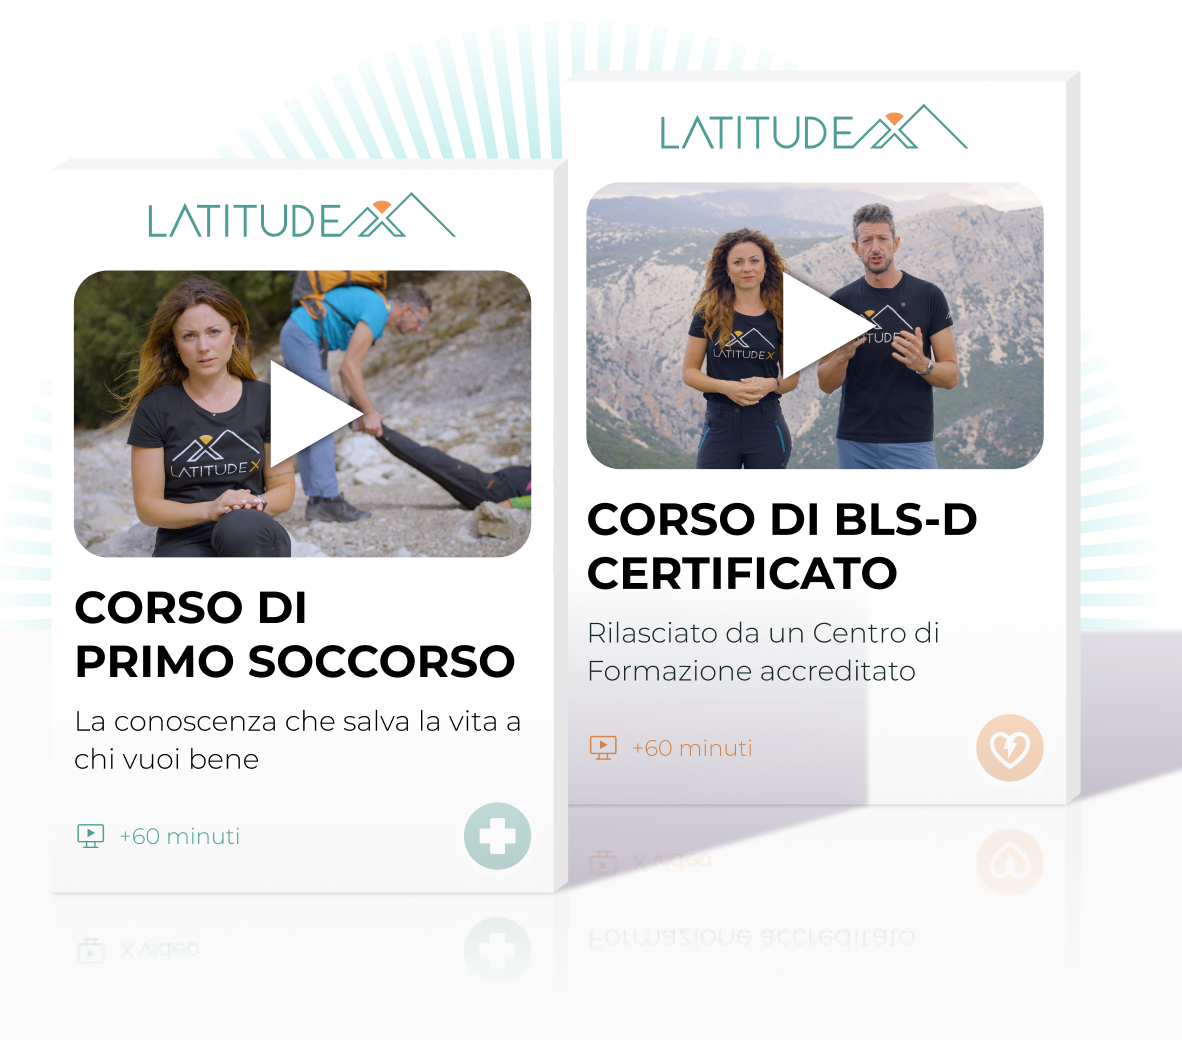
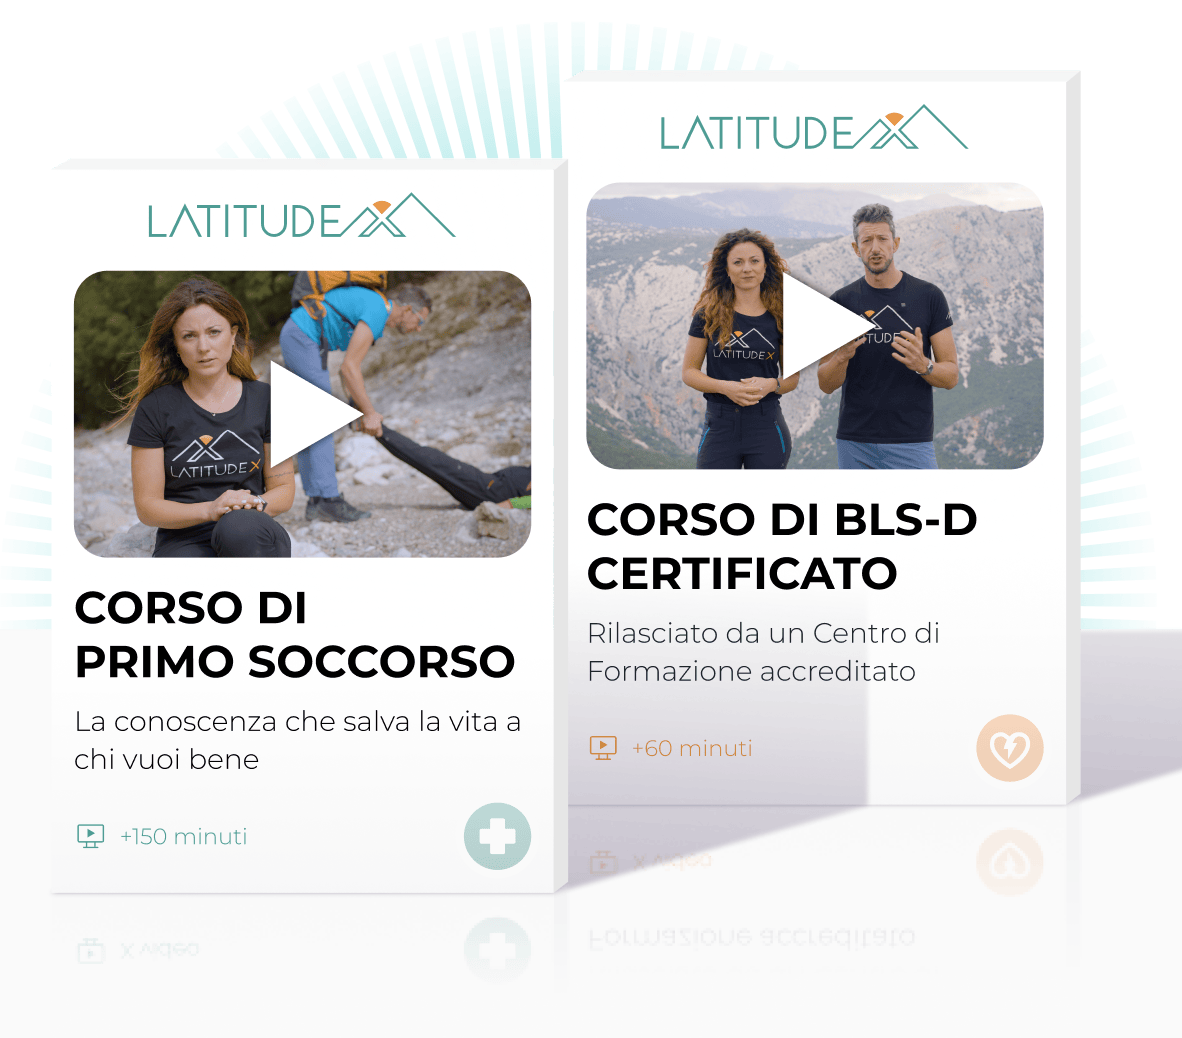
fixs

diff --git a/components/LandingFooter.vue b/components/LandingFooter.vue
@@ -15,7 +15,7 @@
     </h3>
     <BaseAccordion :elements="appConfig.faq"></BaseAccordion>
     <p class="text-sm mt-3 text-right">
-      Vuoi farci una domanda? <a :href="'mailto:' + +appConfig.info.mail" class="underline" target="_blank">Scrivici</a>.
+      Vuoi farci una domanda? <a :href="'mailto:' + appConfig.info.mail" class="underline" target="_blank">Scrivici</a>.
     </p>
   </div>
   <AppFooter></AppFooter>

diff --git a/components/section/LandingHero.vue b/components/section/LandingHero.vue
@@ -42,7 +42,7 @@
         </li>
         <li class="inline-block p-1">
           <BaseIcon :icon="'video'" class="text-secondary mr-1" />
-          <small>+60 minuti di video on-demand</small>
+          <small>+150 minuti di video on-demand</small>
         </li>
         <li class="inline-block p-1">
           <BaseIcon :icon="'mobile'" class="text-secondary mr-1" />
